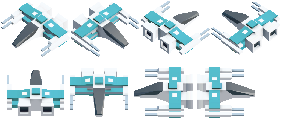
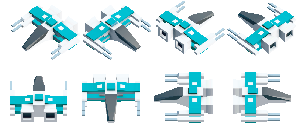
All unit sprites fixed and centered

diff --git a/Source/Motor2D/EnemyHeavy.cpp b/Source/Motor2D/EnemyHeavy.cpp
@@ -204,16 +204,62 @@ void EnemyHeavy::AttachHealthbarToEntity()
 
 void EnemyHeavy::InitUnitSpriteSections()
 {
-	entity_sprite_section = { 58, 0, 58, 47 };						//Down Right
+	//entity_sprite_section = { 58, 0, 58, 47 };						//Down Right
 
-	pathing_up_section = { 0, 47, 70, 52 };
-	pathing_down_section = { 71, 47, 70, 52 };
-	pathing_rigth_section = { 202, 47, 59, 52 };
-	pathing_left_section = { 142, 47, 59, 52 };
-	pathing_up_right_section = { 116, 0, 60, 47 };
-	pathing_up_left_section = { 176, 0, 59, 47 };
-	pathing_down_right_section = { 58, 0, 58, 47 };
-	pathing_down_left_section = { 0, 0, 58, 47 };
+	//pathing_up_section = { 0, 47, 70, 52 };
+	//pathing_down_section = { 71, 47, 70, 52 };
+	//pathing_rigth_section = { 202, 47, 59, 52 };
+	//pathing_left_section = { 142, 47, 59, 52 };
+	//pathing_up_right_section = { 116, 0, 60, 47 };
+	//pathing_up_left_section = { 176, 0, 59, 47 };
+	//pathing_down_right_section = { 58, 0, 58, 47 };
+	//pathing_down_left_section = { 0, 0, 58, 47 };
+
+		//	 --- LOADING FROM XML ---
+	pugi::xml_node sections = App->entities_file.child("entities").child("units").child("enemies").child("enemy_heavy").child("sprite_sections");
+
+	pathing_up_section.x = sections.child("pathing_up").attribute("x").as_int();
+	pathing_up_section.y = sections.child("pathing_up").attribute("y").as_int();
+	pathing_up_section.w = sections.child("pathing_up").attribute("w").as_int();
+	pathing_up_section.h = sections.child("pathing_up").attribute("h").as_int();
+
+	pathing_down_section.x = sections.child("pathing_down").attribute("x").as_int();
+	pathing_down_section.y = sections.child("pathing_down").attribute("y").as_int();
+	pathing_down_section.w = sections.child("pathing_down").attribute("w").as_int();
+	pathing_down_section.h = sections.child("pathing_down").attribute("h").as_int();
+
+	pathing_rigth_section.x = sections.child("pathing_right").attribute("x").as_int();
+	pathing_rigth_section.y = sections.child("pathing_right").attribute("y").as_int();
+	pathing_rigth_section.w = sections.child("pathing_right").attribute("w").as_int();
+	pathing_rigth_section.h = sections.child("pathing_right").attribute("h").as_int();
+
+	pathing_left_section.x = sections.child("pathing_left").attribute("x").as_int();
+	pathing_left_section.y = sections.child("pathing_left").attribute("y").as_int();
+	pathing_left_section.w = sections.child("pathing_left").attribute("w").as_int();
+	pathing_left_section.h = sections.child("pathing_left").attribute("h").as_int();
+
+	pathing_up_right_section.x = sections.child("pathing_up_right").attribute("x").as_int();
+	pathing_up_right_section.y = sections.child("pathing_up_right").attribute("y").as_int();
+	pathing_up_right_section.w = sections.child("pathing_up_right").attribute("w").as_int();
+	pathing_up_right_section.h = sections.child("pathing_up_right").attribute("h").as_int();
+
+	pathing_up_left_section.x = sections.child("pathing_up_left").attribute("x").as_int();
+	pathing_up_left_section.y = sections.child("pathing_up_left").attribute("y").as_int();
+	pathing_up_left_section.w = sections.child("pathing_up_left").attribute("w").as_int();
+	pathing_up_left_section.h = sections.child("pathing_up_left").attribute("h").as_int();
+
+	pathing_down_right_section.x = sections.child("pathing_down_right").attribute("x").as_int();
+	pathing_down_right_section.y = sections.child("pathing_down_right").attribute("y").as_int();
+	pathing_down_right_section.w = sections.child("pathing_down_right").attribute("w").as_int();
+	pathing_down_right_section.h = sections.child("pathing_down_right").attribute("h").as_int();
+
+	pathing_down_left_section.x = sections.child("pathing_down_left").attribute("x").as_int();
+	pathing_down_left_section.y = sections.child("pathing_down_left").attribute("y").as_int();
+	pathing_down_left_section.w = sections.child("pathing_down_left").attribute("w").as_int();
+	pathing_down_left_section.h = sections.child("pathing_down_left").attribute("h").as_int();
+
+	//Default section
+	entity_sprite_section = pathing_down_right_section;
 }
 
 void EnemyHeavy::UpdateUnitSpriteSection()

diff --git a/Source/Motor2D/EnemyInfantry.cpp b/Source/Motor2D/EnemyInfantry.cpp
@@ -133,7 +133,7 @@ bool EnemyInfantry::CleanUp()
 
 void EnemyInfantry::Draw()
 {
-	App->render->Blit(this->entity_sprite, (int)pixel_position.x, (int)pixel_position.y, &entity_sprite_section);
+	App->render->Blit(this->entity_sprite, (int)pixel_position.x, (int)pixel_position.y - 15, &entity_sprite_section);
 
 	if (App->player->god_mode)
 	{
